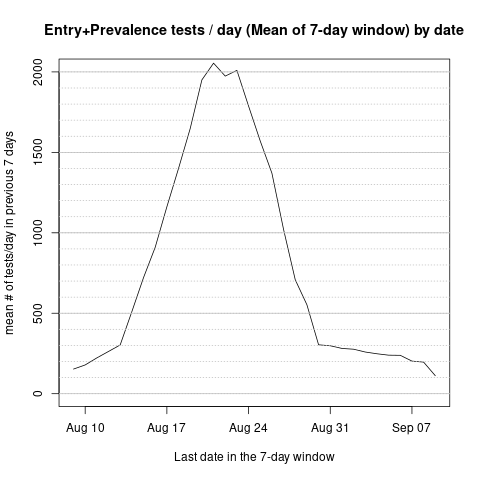
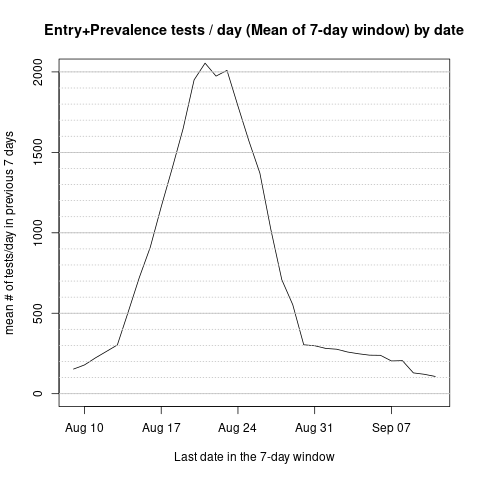
update through Sept 13, but not comment in Known Issues about not re-measuring bars in the comprehensive report

diff --git a/README.md b/README.md
@@ -19,8 +19,9 @@ Starting on Friday 11 September, KU moved to publish reports at https://protect.
 
 Currently the reports are for the periods:
   * [August 1 to Sept 10](https://protect.ku.edu/sites/protect/files/documents/Dashboard/COVID-19_Dashboard_Aug1toSept10.pdf)
-  * [August 3 to Sept 9](https://protect.ku.edu/sites/protect/files/documents/Dashboard/COVID-19_Dashboard_Sept3toSept9.pdf)
-
+  * [Sept 3 to Sept 9](https://protect.ku.edu/sites/protect/files/documents/Dashboard/COVID-19_Dashboard_Sept3toSept9.pdf)
+  * [August 1 to Sept 13](https://protect.ku.edu/sites/protect/files/documents/Dashboard/COVID-19_Dashboard_Aug1toSept13.pdf)
+  * [Sept 7 to Sept 13](https://protect.ku.edu/sites/protect/files/documents/Dashboard/COVID-19_Dashboard_Sept7toSept13.pdf)
 Neither report traces the test-positivity percentage over time, which I was interested in.
 For a time-series of test-positivity rates to be easily interpreted as a proxy of the campus-wide prevalence of SARS-CoV-2 infections, it is important to either have detailed knowledge of the biases associated with targeted testing, or to focus on the entry tests and "randomized prevalence testing."
 Thus, this repository contains only data from the "Entry & Prevalence Testing" page of the Dashboard reports (that is page 2 in each of the reports).
@@ -69,6 +70,8 @@ Currently the `plots.R` script is used to create to 2 plots:
 ![plot of test positivity over time](https://raw.githubusercontent.com/mtholder/ku-covid-testing-data/master/images/test-positivity-over-time.png)
 
 ## Known issues
+
+**Note**: following the Tuesday, Sept 15 update, I updated the counts covered in the smaller report (Sept 7-13), but I did **not** reread older dates from the comprehensive report. There was one labelled bar (for 08/26/2020) in the comprehensive report that changed. So that was updated. Measuring all of the bars takes quite a bit of time, hopefully most of the earlier dates are stable. But those numbers should be re-measured at some point if KU does not release the results in a text form. 
 
   * For the Aug 1 - Sept 10 check, the approximations I read from the bar charts indicated 25,034 negative tests, but the pdf on the dashboard's summary stats report 25,035 negative tests. So my pixel reading of at least on of the bar charts in that reports negative tests visualization was probably a little off. That was the hardest chart to read accurately, because the tests-represented-by-each-pixel calibration was the most extreme of all of the plots (unsurprisingly, given the large numbers depicted in that graph). 
 
